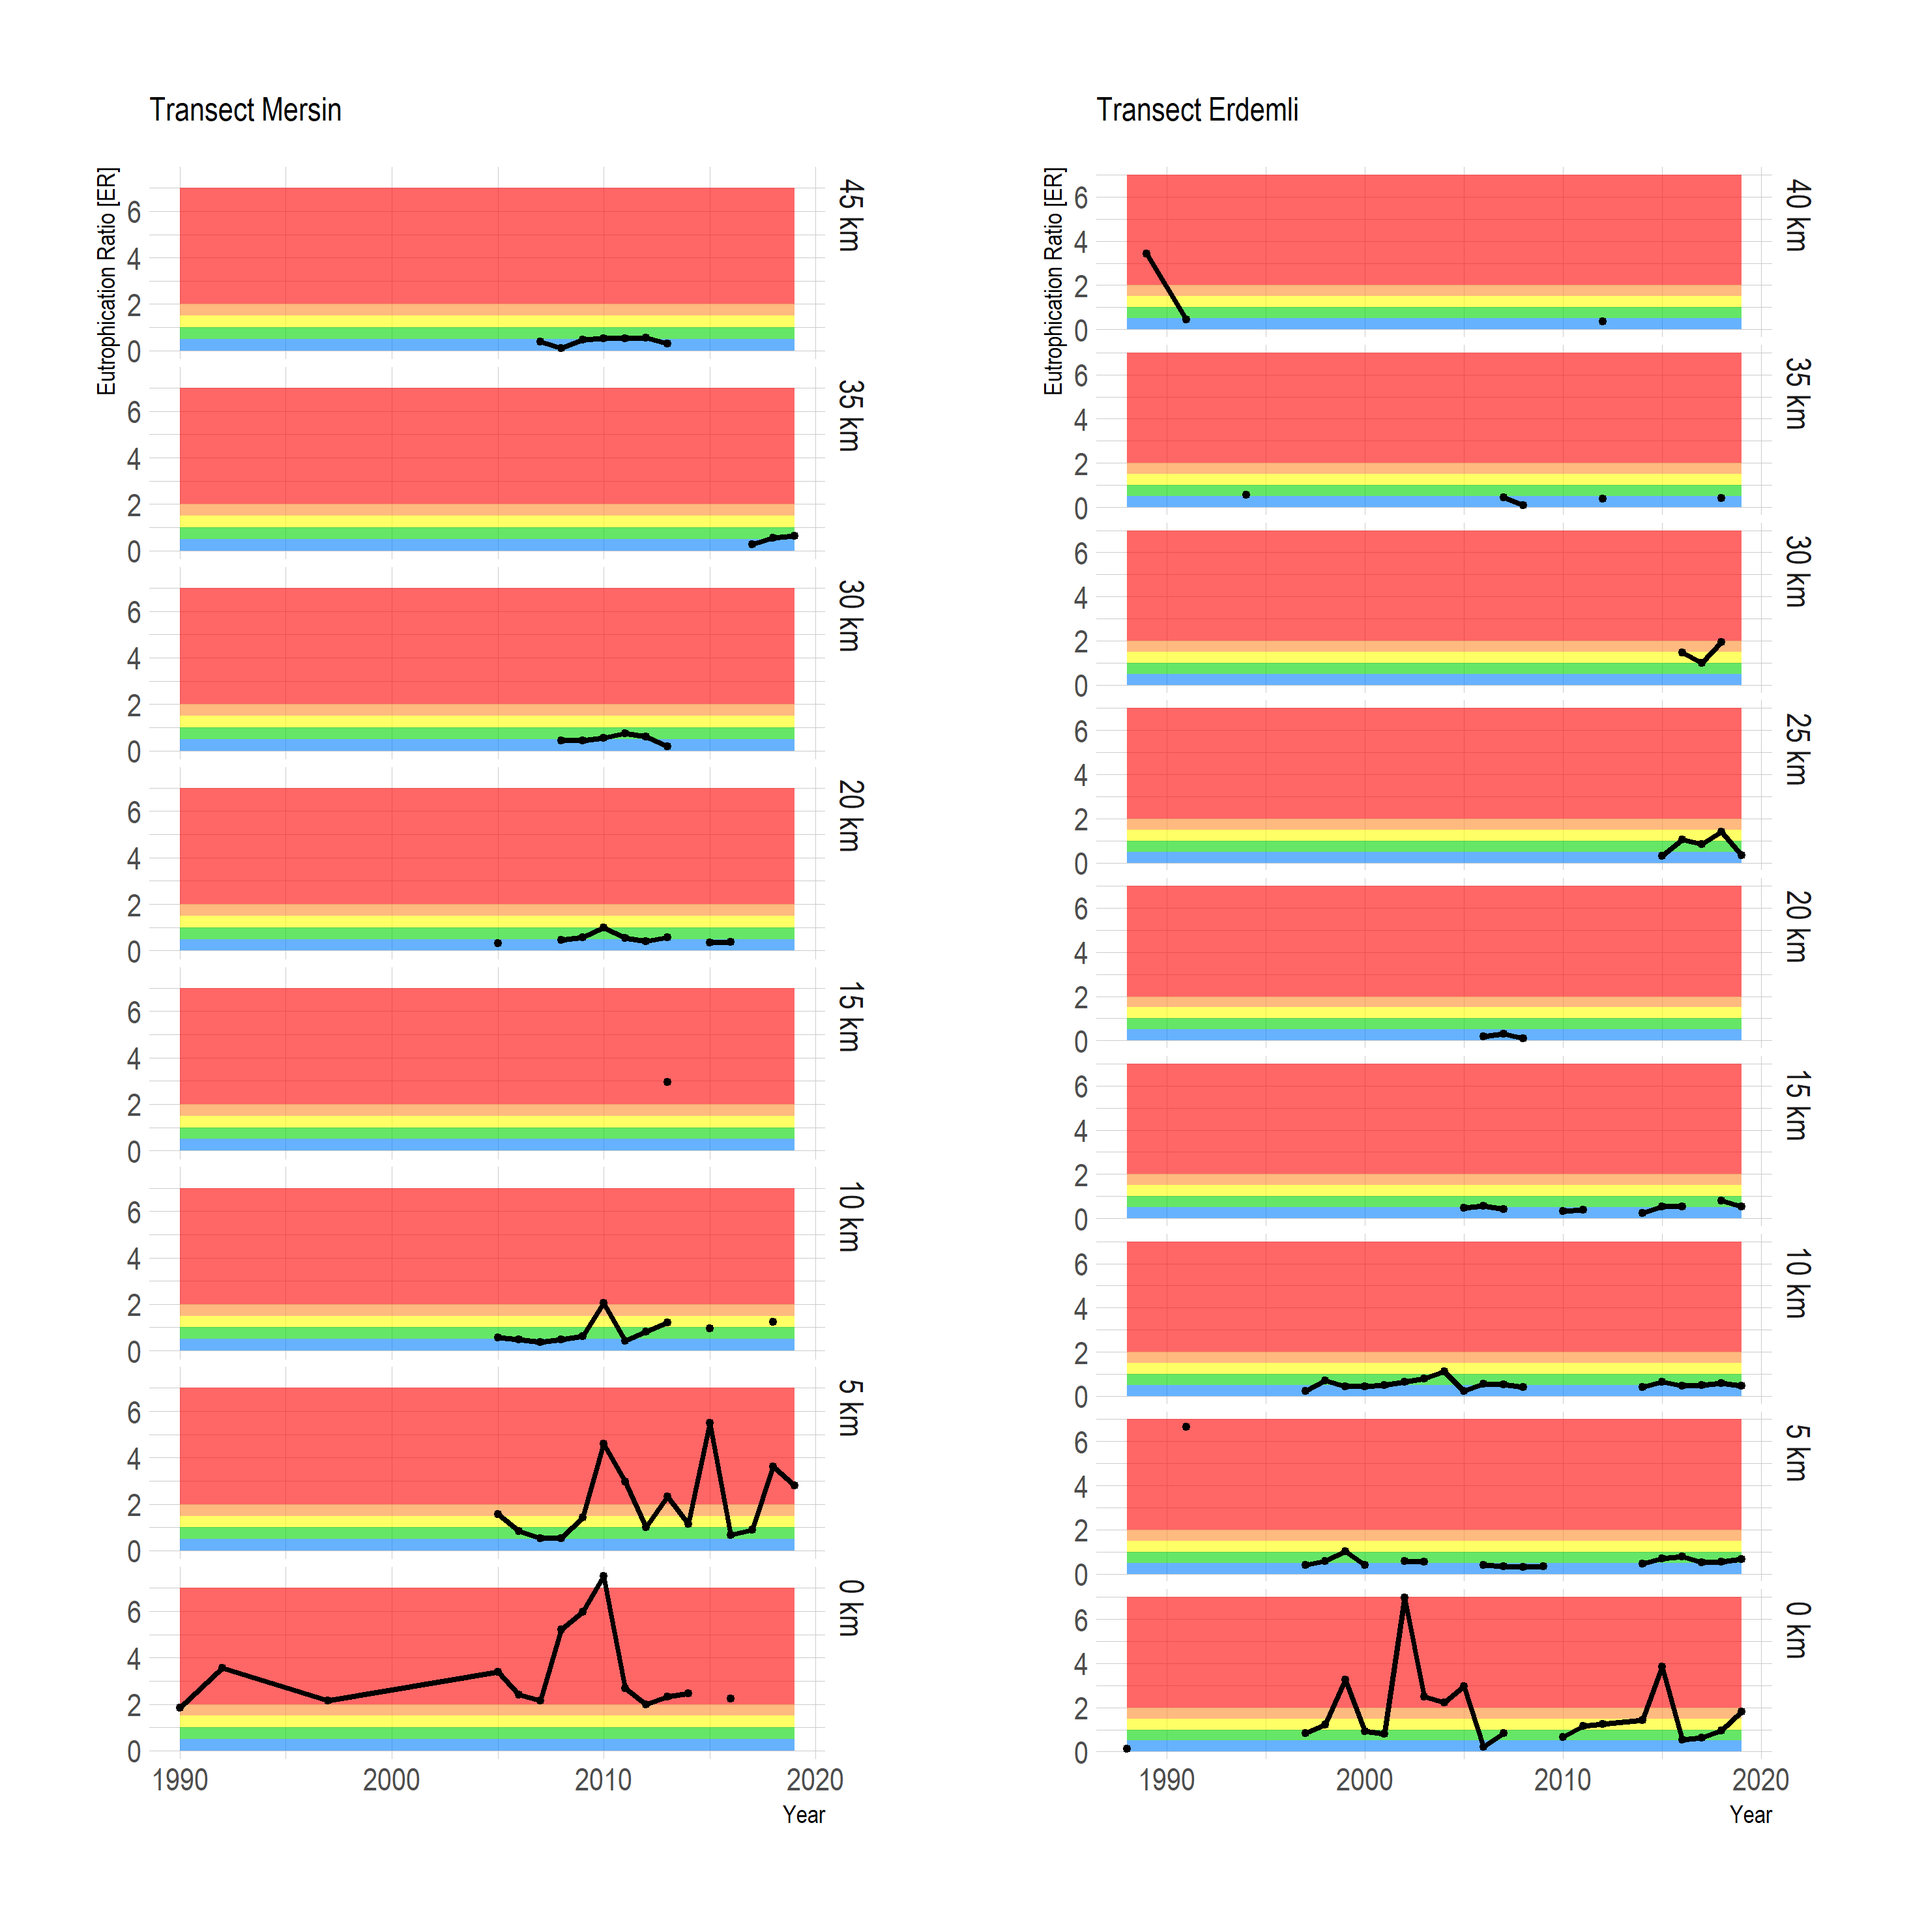
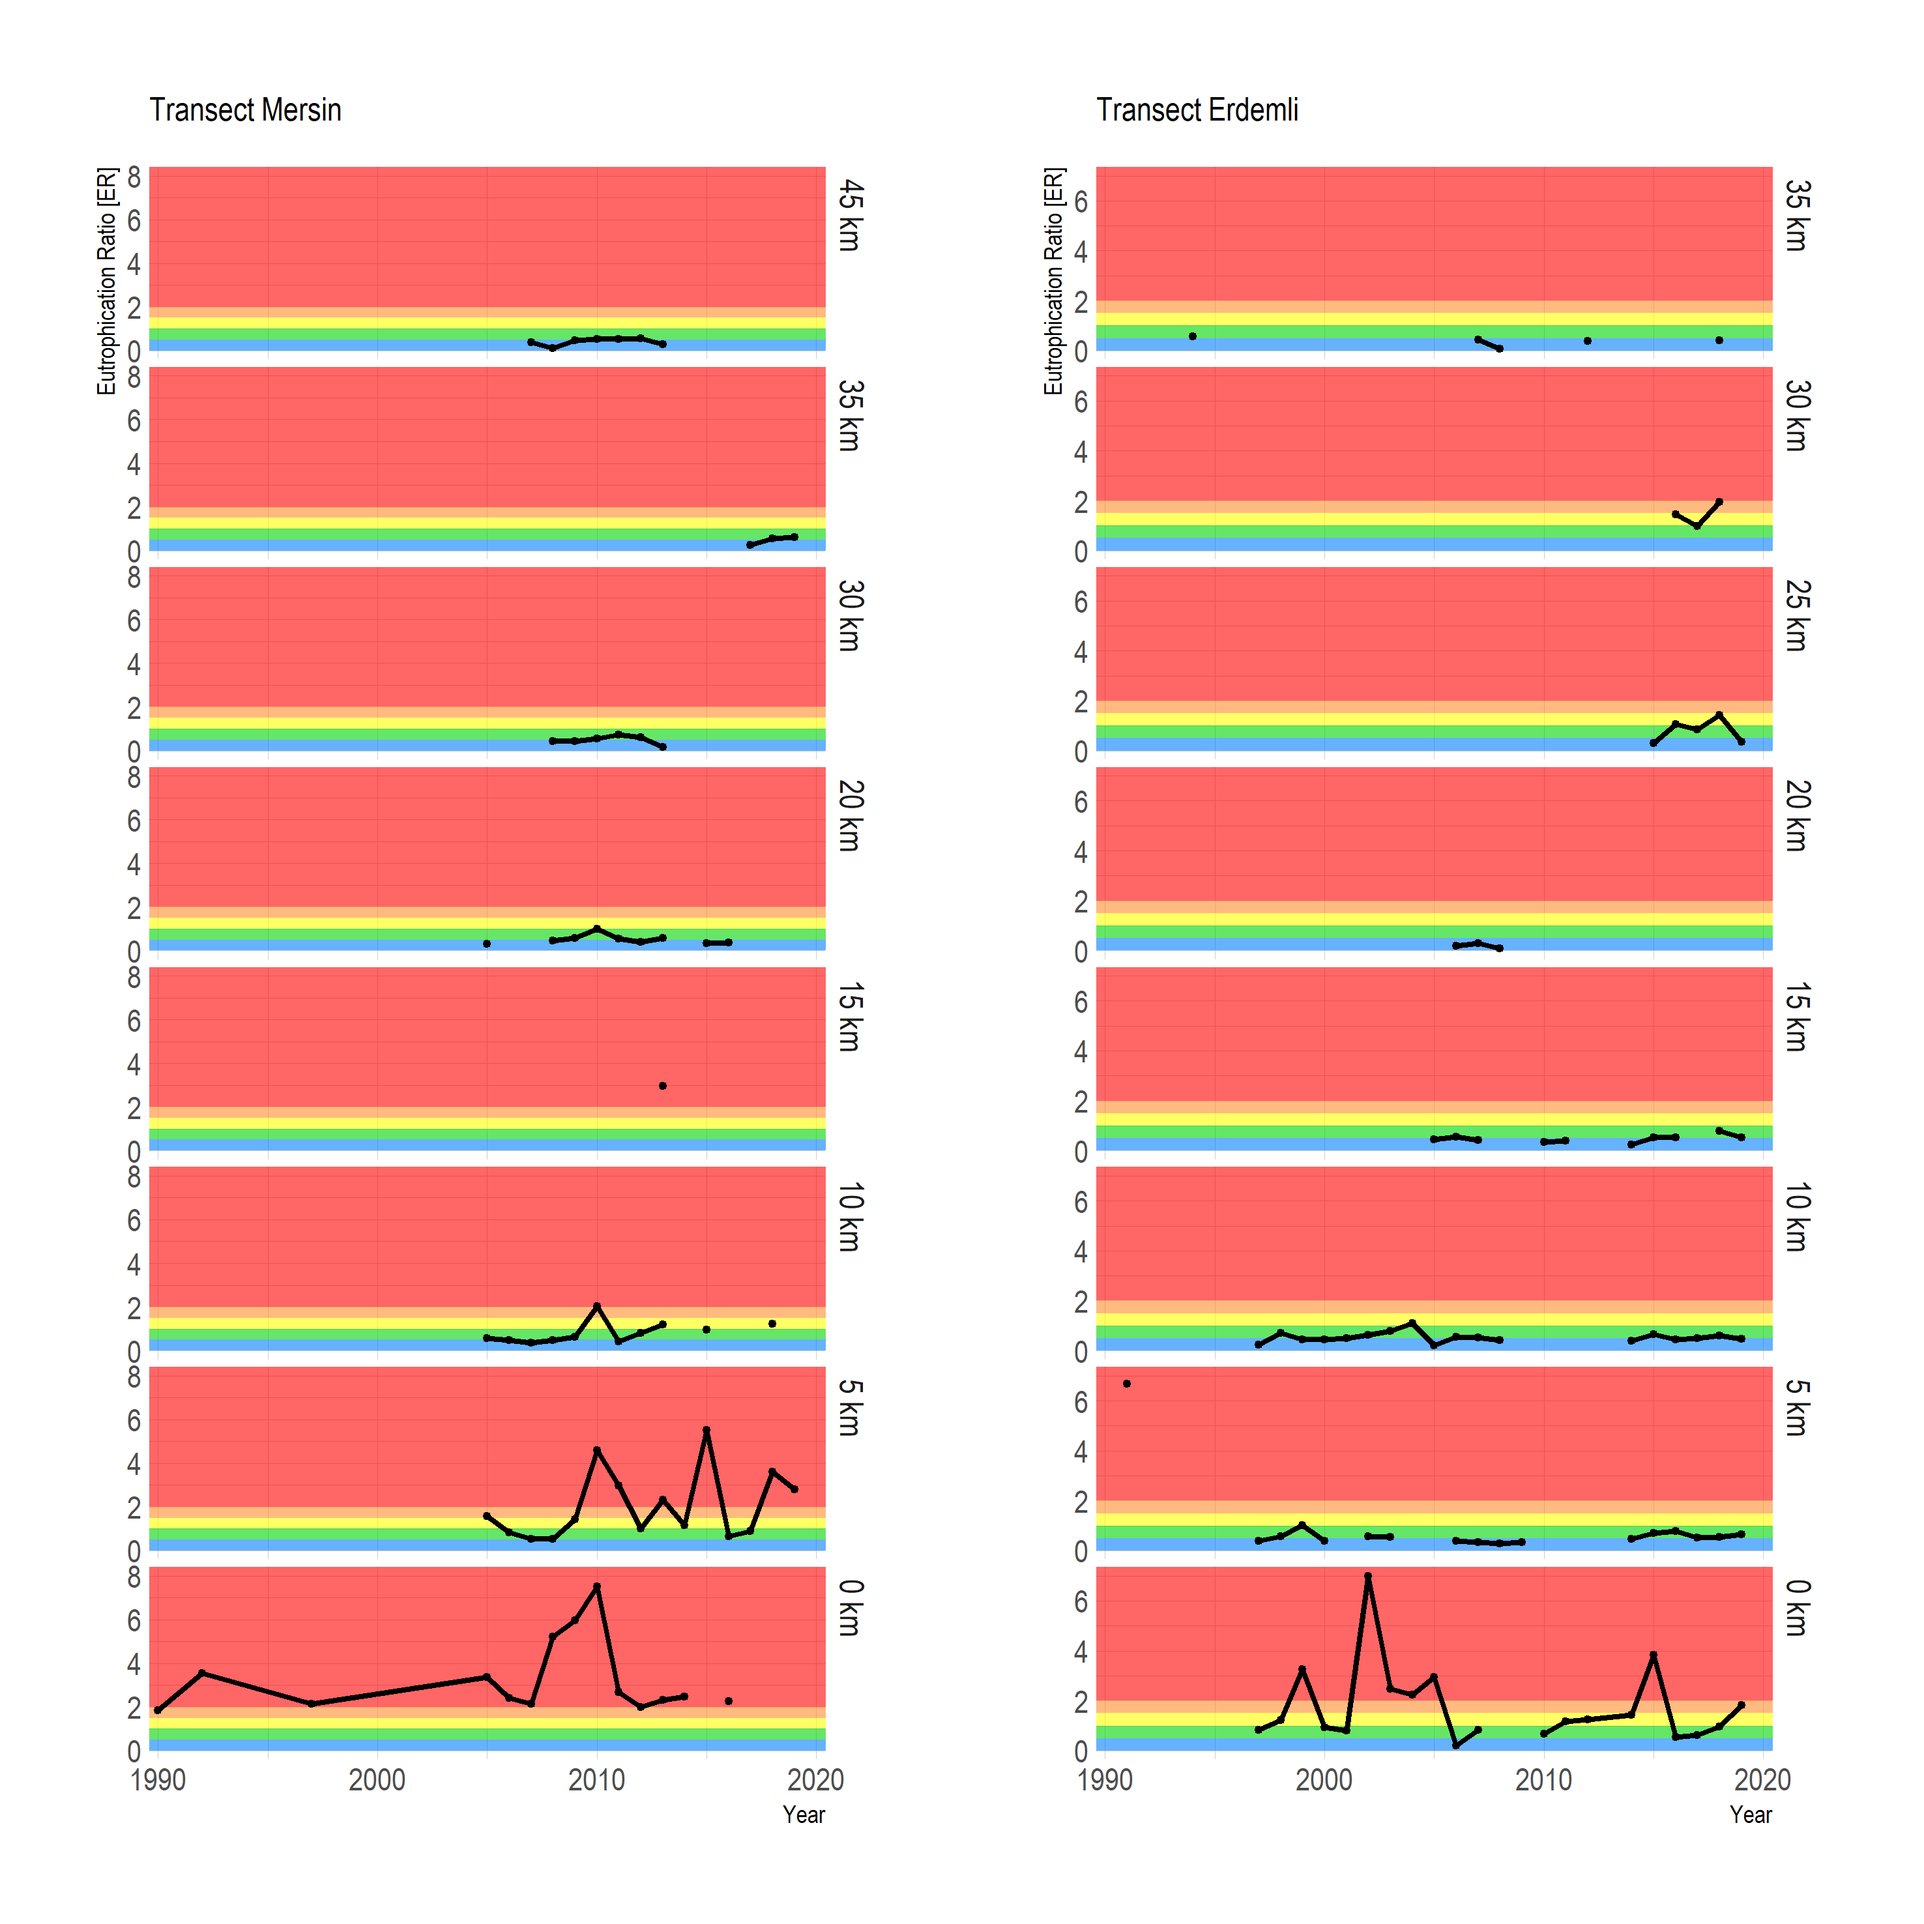
removed last section of Erdemli transect and updated timeseries figures

Changed region(s): [[0.561, 0.0623, 0.9661, 0.935], [0.0623, 0.0623, 0.4363, 0.935]]

diff --git a/README.md b/README.md
@@ -27,7 +27,7 @@ The first transect starts at Mersin (TM36 x=381962 y=4075951). The transect is d
 ![Plot of Mersin transect](png/transect_Mersin.png)
 
 #### 2. Erdemli Transect 
-The second transect starts at Erdemli. In ArcGIS, the *buffer* function is used to divide the waters into bands of distance from the coast at 5 km intervals, up to 25 km, giving 5 bands in total, each 5 km wide. The lateral start and end boundaries of the bands perpendicular to the coastline were chosen arbitrarily, intending only to enclose the area with relatively high density of observations close to Erdemli.
+The second transect starts at Erdemli. In ArcGIS, the *buffer* function is used to divide the waters into bands of distance from the coast at 5 km intervals, up to 40 km, giving 8 bands in total, each 5 km wide. The lateral start and end boundaries of the bands perpendicular to the coastline were chosen arbitrarily, intending only to enclose the area with relatively high density of observations close to Erdemli.
 
 
 ![Plot of Erdemli transect](png/transect_Erdemli.png)
